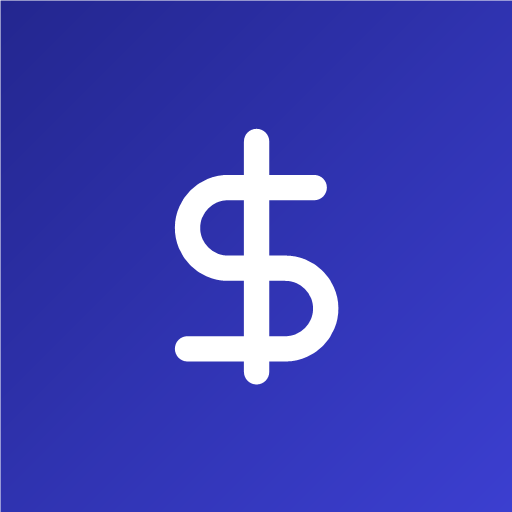
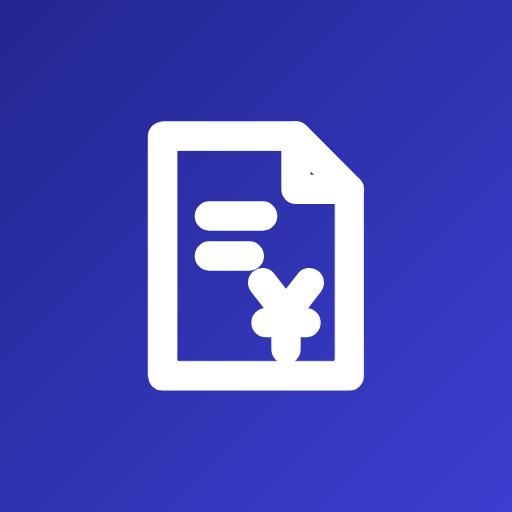
支払管理を請求書、売掛管理を貯金箱のロゴに（見分けやすく別の絵にする）
同じお金のアプリでも、ひと目で見分けられるように対にしない別の絵にする。
どちらもほかのアプリと同じ紺のグラデーションの角丸に白い線。

- 支払管理：ドル記号 → 請求書（明細の線＋円）
  - 左のサイドバーのマーク（nav.js）
  - ブラウザのタブ・スマホのホーム画面・アプリとして入れたときのアイコン
    （favicon_ap.png / apple-touch-icon-ap.png / ap_icon-192.png / ap_icon-512.png
     を描き直し。ファイル名は同じなので各画面の指定はそのまま）
- 売掛管理：「売」の文字 → 貯金箱（コイン入り）
  - サインイン画面のマーク・左上のマーク
  - ブラウザのタブのアイコン：新規（favicon_ar.svg）

Changed region(s): [[0.2812, 0.2188, 0.7188, 0.7812], [0.0, 0.0, 0.0312, 0.0312]]

diff --git a/ar_management.html b/ar_management.html
@@ -4,6 +4,7 @@
 <meta charset="UTF-8">
 <meta name="viewport" content="width=device-width, initial-scale=1.0">
 <title>売掛管理アプリ — 花岡車輌</title>
+<link rel="icon" type="image/svg+xml" href="favicon_ar.svg"><!-- 入金がたまる＝貯金箱 -->
 <script src="https://cdn.jsdelivr.net/npm/@azure/msal-browser@3.10.0/lib/msal-browser.min.js" crossorigin="anonymous"></script>
 <script src="hanaoka_auth.js"></script>
 <script src="https://cdn.jsdelivr.net/npm/xlsx@0.18.5/dist/xlsx.full.min.js" crossorigin="anonymous"></script>
@@ -21,7 +22,7 @@ body{background:var(--bg);color:var(--text);font-family:'Segoe UI','Yu Gothic',s
 
 /* ===== LOGIN ===== */
 #loginScreen{display:flex;flex-direction:column;align-items:center;justify-content:center;min-height:100vh;gap:20px;padding:20px}
-.login-logo{width:56px;height:56px;background:var(--ms-blue);border-radius:10px;display:flex;align-items:center;justify-content:center;font-size:20px;font-weight:700;color:#fff}
+.login-logo{width:56px;height:56px;background:linear-gradient(135deg,#23268f 0%,#3b3fd0 100%);border-radius:14px;box-shadow:0 4px 12px rgba(35,38,143,.3);display:flex;align-items:center;justify-content:center;font-size:20px;font-weight:700;color:#fff}
 .login-title{font-size:20px;font-weight:600}
 .login-subtitle{font-size:13px;color:var(--text-muted);text-align:center;max-width:360px;line-height:1.6}
 .login-btn{display:flex;align-items:center;gap:10px;background:var(--ms-blue);color:#fff;border:none;border-radius:6px;padding:12px 24px;font-size:14px;font-weight:600;cursor:pointer}
@@ -34,7 +35,10 @@ body{background:var(--bg);color:var(--text);font-family:'Segoe UI','Yu Gothic',s
 /* Topbar */
 .topbar{background:var(--surface);border-bottom:1px solid var(--border);padding:0 16px;height:48px;display:flex;align-items:center;justify-content:space-between;flex-shrink:0}
 .topbar-left{display:flex;align-items:center;gap:12px}
-.topbar-title{font-size:15px;font-weight:600}
+.topbar-title{font-size:15px;font-weight:600;display:flex;align-items:center;gap:8px}
+.login-logo svg{width:30px;height:30px}
+.topbar-mark{width:26px;height:26px;border-radius:7px;flex:none;display:grid;place-items:center;color:#fff;background:linear-gradient(135deg,#23268f 0%,#3b3fd0 100%);box-shadow:0 3px 8px rgba(35,38,143,.25)}
+.topbar-mark svg{width:15px;height:15px}
 .topbar-right{display:flex;align-items:center;gap:8px}
 .user-chip{display:flex;align-items:center;gap:6px;background:var(--surface2);border:1px solid var(--border);border-radius:16px;padding:3px 10px 3px 4px;font-size:12px;color:var(--text-muted)}
 .user-avatar{width:22px;height:22px;border-radius:50%;background:var(--ms-blue);display:flex;align-items:center;justify-content:center;font-size:10px;font-weight:700;color:#fff}
@@ -167,7 +171,7 @@ body{background:var(--bg);color:var(--text);font-family:'Segoe UI','Yu Gothic',s
 
 <!-- ===== LOGIN SCREEN ===== -->
 <div id="loginScreen">
-  <div class="login-logo">売</div>
+  <div class="login-logo"><svg viewBox="0 0 24 24" fill="none" stroke="currentColor" stroke-width="2.2" stroke-linecap="round" stroke-linejoin="round" aria-hidden="true"><path d="M15 11v.01"/><path d="M5.17 8.38a3 3 0 1 1 4.66-1.38"/><path d="M16 4v3.8a6 6 0 0 1 2.66 3.2H20a1 1 0 0 1 1 1v2a1 1 0 0 1-1 1h-1.34c-.34.95-.91 1.8-1.66 2.47v2.03a1.5 1.5 0 0 1-3 0v-.58a6 6 0 0 1-1 .08H9a6 6 0 0 1-1-.08v.58a1.5 1.5 0 0 1-3 0v-2.03A6 6 0 0 1 9 6.5h2.5z"/></svg></div>
   <div class="login-title">売掛管理アプリ</div>
   <div class="login-subtitle" data-ha-login>花岡車輌株式会社<br>Microsoft 365 アカウントでサインインしてください</div>
   <button id="loginBtn" class="login-btn" data-ha-login>
@@ -182,7 +186,7 @@ body{background:var(--bg);color:var(--text);font-family:'Segoe UI','Yu Gothic',s
   <!-- Topbar -->
   <div class="topbar">
     <div class="topbar-left">
-      <span class="topbar-title">売掛管理</span>
+      <span class="topbar-title"><span class="topbar-mark"><svg viewBox="0 0 24 24" fill="none" stroke="currentColor" stroke-width="2.2" stroke-linecap="round" stroke-linejoin="round" aria-hidden="true"><path d="M15 11v.01"/><path d="M5.17 8.38a3 3 0 1 1 4.66-1.38"/><path d="M16 4v3.8a6 6 0 0 1 2.66 3.2H20a1 1 0 0 1 1 1v2a1 1 0 0 1-1 1h-1.34c-.34.95-.91 1.8-1.66 2.47v2.03a1.5 1.5 0 0 1-3 0v-.58a6 6 0 0 1-1 .08H9a6 6 0 0 1-1-.08v.58a1.5 1.5 0 0 1-3 0v-2.03A6 6 0 0 1 9 6.5h2.5z"/></svg></span>売掛管理</span>
     </div>
     <div class="topbar-right">
       <div class="user-chip">

diff --git a/nav.js b/nav.js
@@ -126,7 +126,7 @@
   // グループごとの名前とマーク（サイドバーの上）
   var BRAND = {
     reserve: { name: '予約状況', sub: 'HANAOKA RESERVE', mark: '<rect x="3" y="4.5" width="18" height="16" rx="2"/><path d="M3 9.5h18M8 3v3M16 3v3"/>', key: 'hanaoka.reserve.sidebar.v1' },
-    ap:      { name: '支払管理', sub: 'HANAOKA AP', mark: '<path d="M12 2v20M17 6H9.5a3.5 3.5 0 0 0 0 7h5a3.5 3.5 0 0 1 0 7H6"/>', key: 'hanaoka.ap.sidebar.v1' },
+    ap:      { name: '支払管理', sub: 'HANAOKA AP', mark: '<path d="M5 3h10l4 4v14H5z"/><path d="M15 3v4h4"/><path d="M8.5 9h4M8.5 12h3"/><path d="M12.5 14l1.75 2.25L16 14M14.25 16.25V19M12.75 17h3"/>', key: 'hanaoka.ap.sidebar.v1' },
     kaikei:  { name: '会計', sub: 'HANAOKA ACCOUNTING', mark: '<path d="M4 20V10M10 20V4M16 20v-7M22 20H2"/>', key: 'hanaoka.kaikei.sidebar.v1' },
     payroll: { name: '給与・労務', sub: 'HANAOKA PAYROLL', mark: '<circle cx="9" cy="8" r="3.2"/><path d="M3 20c0-3.3 2.7-6 6-6s6 2.7 6 6"/><path d="M17 8v8M14.5 10.5h5M14.5 13.5h5"/>', key: 'hanaoka.payroll.sidebar.v1' }
   };
